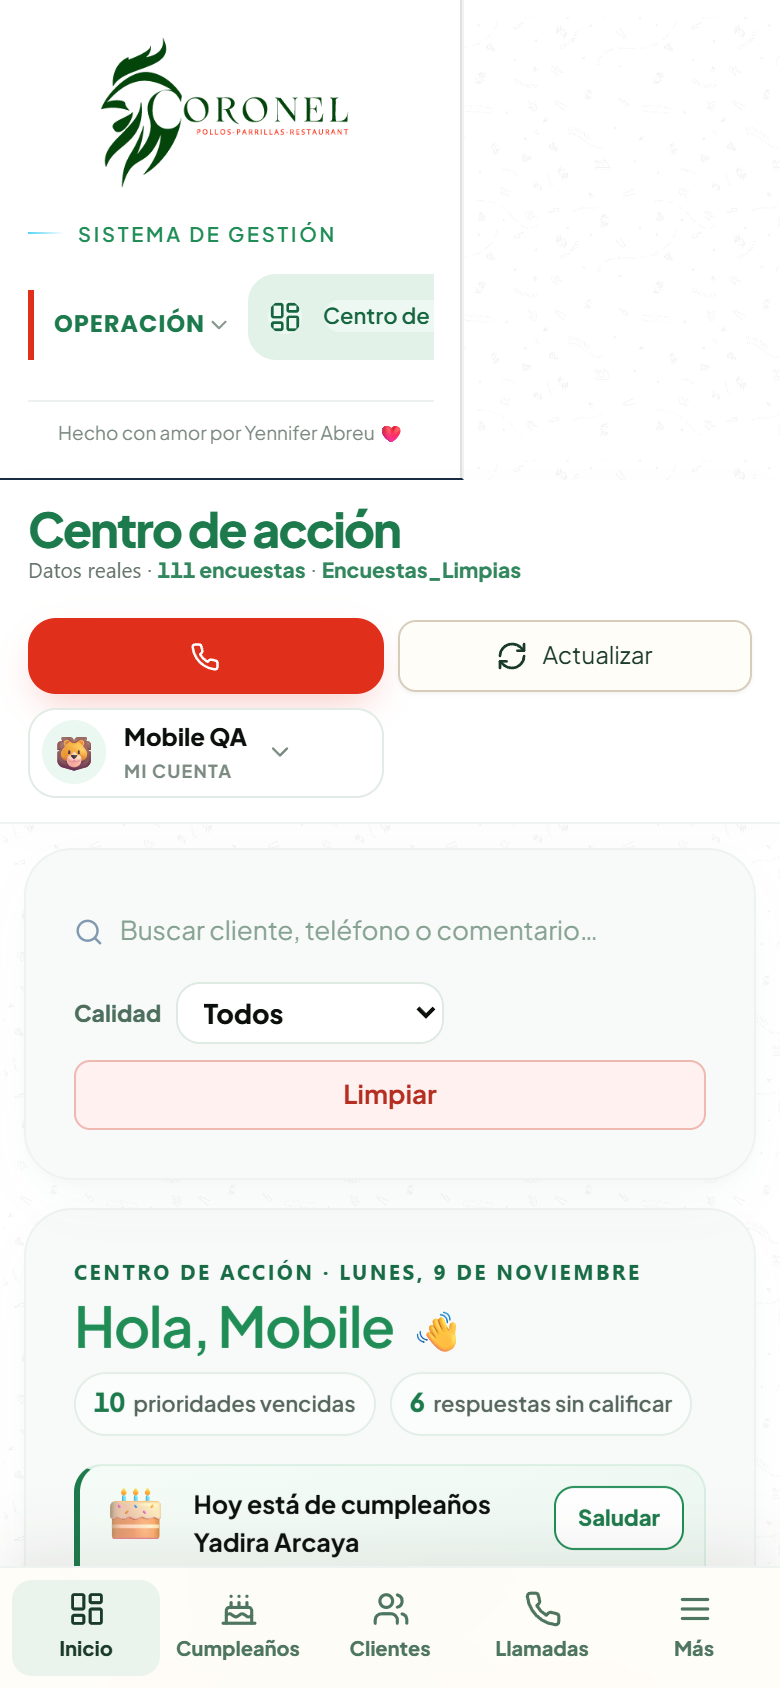
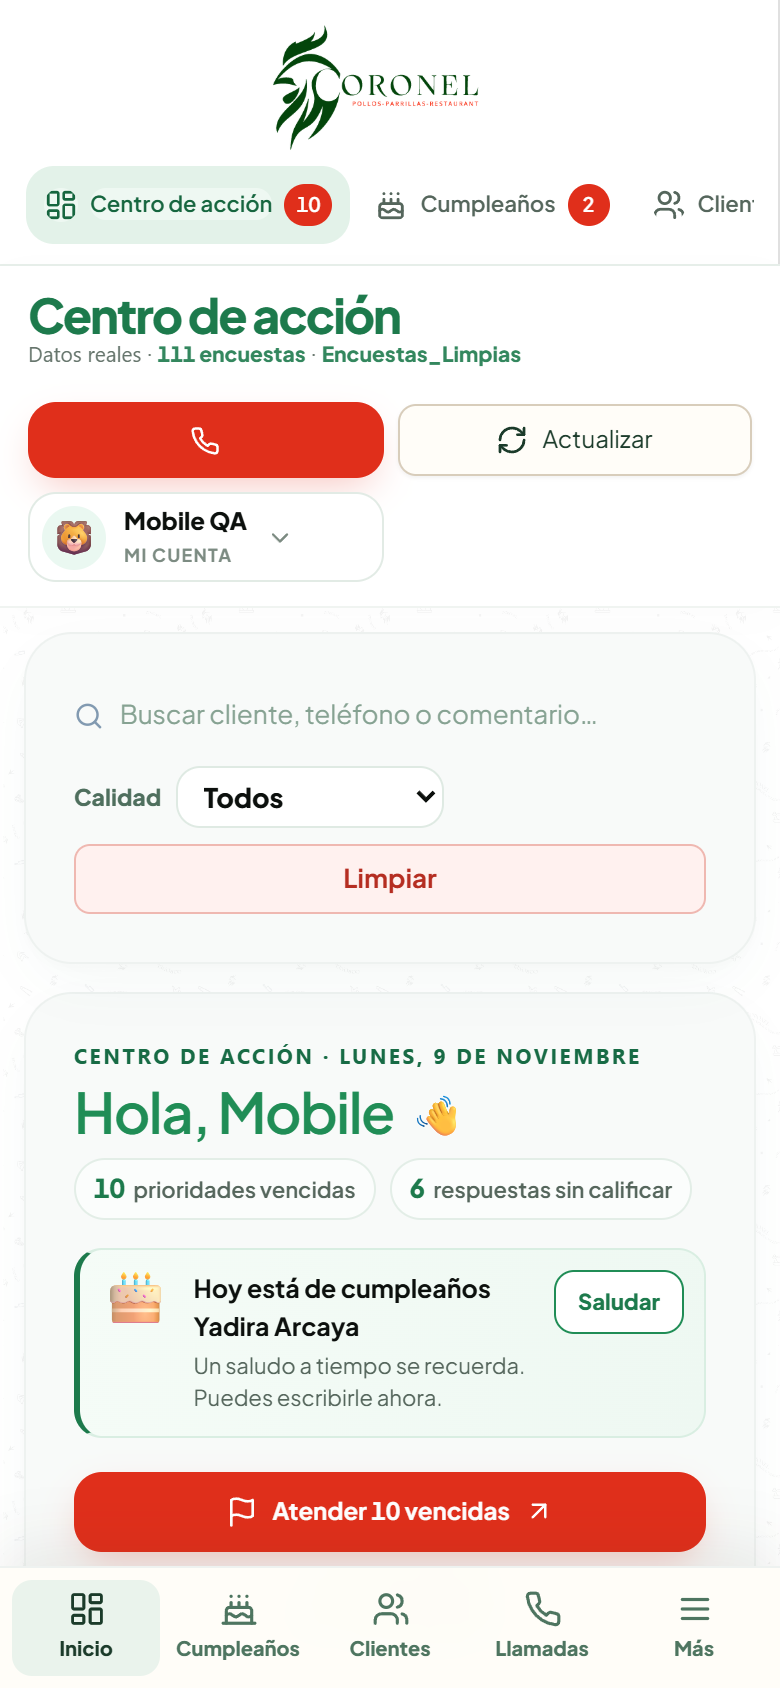
Centrar ficha y compactar cabecera movil

diff --git a/client/src/index.css b/client/src/index.css
@@ -5547,3 +5547,33 @@ body * { font-variant-numeric: tabular-nums; }
   .bw-card { width: 100% !important; }
   .bw-filters, .bw-chips, .birthday-toolbar { flex-wrap: wrap !important; }
 }
+
+/* El modal de ficha debe quedar siempre centrado en la ventana */
+.content > section { transform: none !important; }
+
+/* Móvil: barra superior compacta, no una pared de 400 px */
+@media (max-width: 760px) {
+  .sidebar {
+    display: flex !important;
+    flex-wrap: wrap !important;
+    align-items: center !important;
+    padding: 9px 12px !important;
+    gap: 4px 10px !important;
+  }
+  .sidebar-logo-box {
+    width: 88px !important;
+    margin: 0 !important;
+    padding: 0 !important;
+    flex: 0 0 auto !important;
+    justify-content: flex-start !important;
+  }
+  .sidebar-logo { max-width: 78px !important; }
+  .sidebar .grouped-sidebar-nav {
+    flex: 1 1 100% !important;
+    margin-top: 5px !important;
+  }
+  .sidebar .nav-item { padding: 7px 8px !important; font-size: 10.5px !important; }
+  .quick-call-button span { display: inline !important; }
+  .bw-modal-head-actions { flex-wrap: wrap; }
+  .bw-modal-head-actions .bw-modal-edit { min-height: 29px; }
+}

diff --git a/docs/ESTILO_ACTUAL.css b/docs/ESTILO_ACTUAL.css
@@ -1371,3 +1371,33 @@ body * { font-variant-numeric: tabular-nums; }
   .bw-card { width: 100% !important; }
   .bw-filters, .bw-chips, .birthday-toolbar { flex-wrap: wrap !important; }
 }
+
+/* El modal de ficha debe quedar siempre centrado en la ventana */
+.content > section { transform: none !important; }
+
+/* Móvil: barra superior compacta, no una pared de 400 px */
+@media (max-width: 760px) {
+  .sidebar {
+    display: flex !important;
+    flex-wrap: wrap !important;
+    align-items: center !important;
+    padding: 9px 12px !important;
+    gap: 4px 10px !important;
+  }
+  .sidebar-logo-box {
+    width: 88px !important;
+    margin: 0 !important;
+    padding: 0 !important;
+    flex: 0 0 auto !important;
+    justify-content: flex-start !important;
+  }
+  .sidebar-logo { max-width: 78px !important; }
+  .sidebar .grouped-sidebar-nav {
+    flex: 1 1 100% !important;
+    margin-top: 5px !important;
+  }
+  .sidebar .nav-item { padding: 7px 8px !important; font-size: 10.5px !important; }
+  .quick-call-button span { display: inline !important; }
+  .bw-modal-head-actions { flex-wrap: wrap; }
+  .bw-modal-head-actions .bw-modal-edit { min-height: 29px; }
+}
